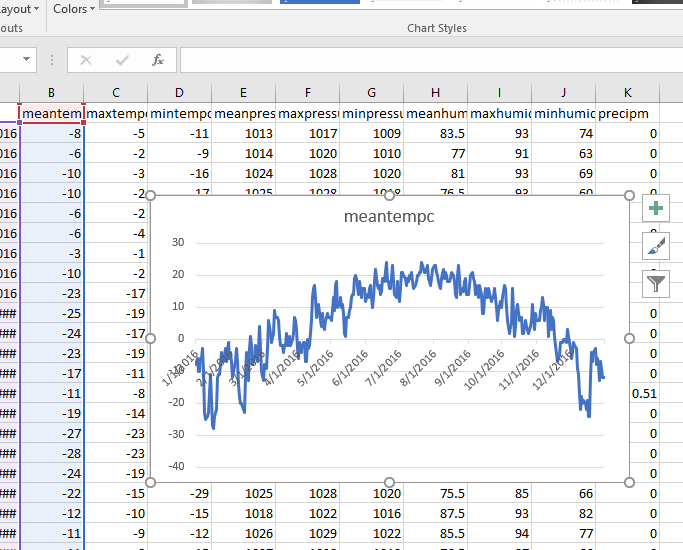
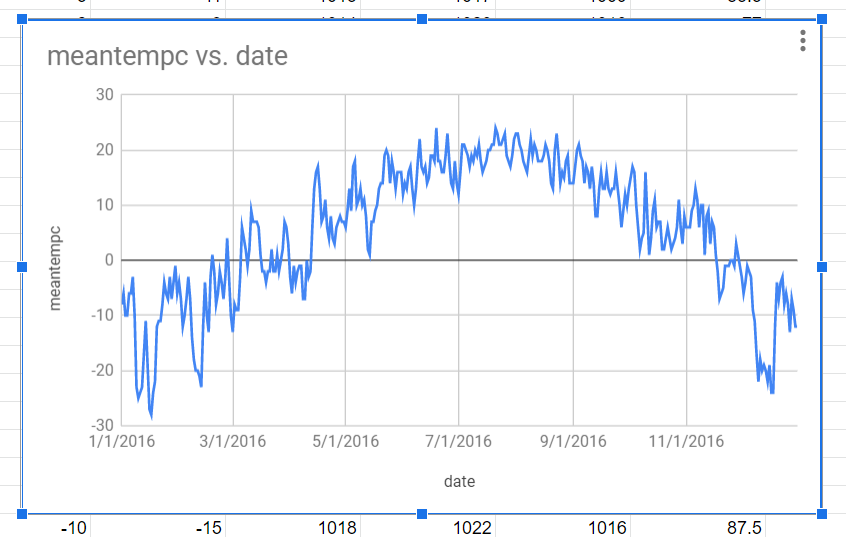
added charting project for iTECH 100

diff --git a/book/ch5-spreadsheets/project-chart.md b/book/ch5-spreadsheets/project-chart.md
@@ -1,12 +1,14 @@
 --- 
-title: 'Project 2 - Charting the Weather'
+title: 'Project - Charting the Weather'
 layout: page
-parent: Chapter 4 - Spreadsheets
+parent: Chapter 5 - Spreadsheets
 nav_order: 11
 ---
 
 PROJECT - Charting the Weather
 ==============================
+
+<iframe width="560" height="315" src="https://www.youtube.com/embed/j1U9SkPdtFU" frameborder="0" allow="accelerometer; autoplay; clipboard-write; encrypted-media; gyroscope; picture-in-picture" allowfullscreen></iframe>
 
 In this project, you will look at a large data set, 366 rows of data.
 These are daily weather data from the weather station near Bemidji, MN.
@@ -18,22 +20,14 @@ Your job is to take the raw data and build some charts with it.
 Directions
 ----------
 
-1.  Download the [start file](res/weather.csv)
-2.  Open it this .csv file in Excel and save it as an excel spreadsheet
-    file (.xlsx)
-3.  To create the first chart, select the first two columns of data,
-    that is Columns **A** and **B**, the date column and the mean
-    temperature column.
-4.  In the **Insert** tab, select the basic two-dimensional line graph.
-    It should look like this:
+1.  Open the [start file](https://bit.ly/3lAYKlF) in Sheets. It will automatically create a copy of the file for you.
+3.  To create the first chart, select the first two columns of data, that is Columns **A** and **B**, the date column and the mean temperature column.
+4.  Click the **Insert Chart** tool and it will create a line chart showing the mean temperature over the course of the year. It should look like this:
 
     ![](images/project_chart/1.png){: width="75%"}
 
 5.  Create another sheet and name it *Charts*.
-6.  **Move** your line chart to that sheet and situate it at the top
-    left of the sheet.
-7.  For the rest of the project, you will put all of the charts you
-    create in this sheet.
+1. Copy and paste the chart over to the new sheet and then delete it from the main sheet. For the rest of the project, you will copy all of your charts to that sheet.
 
 Requirements
 ------------
